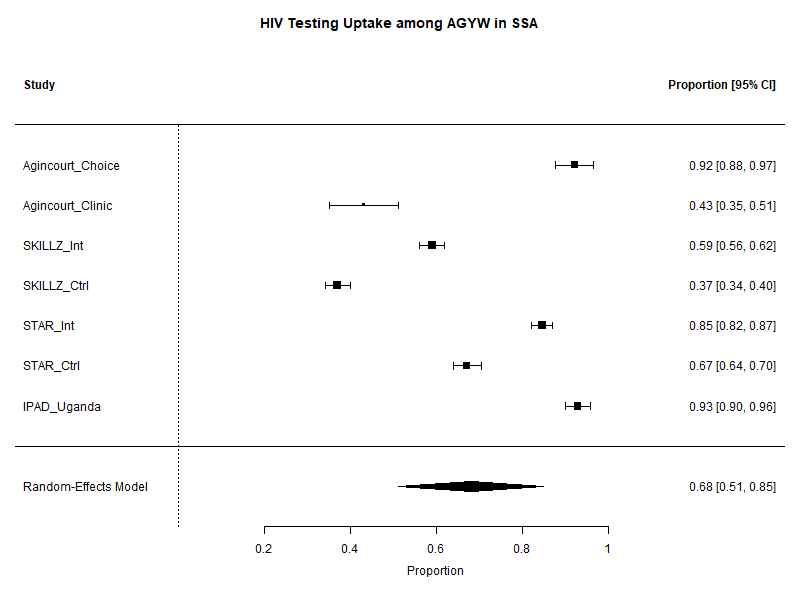
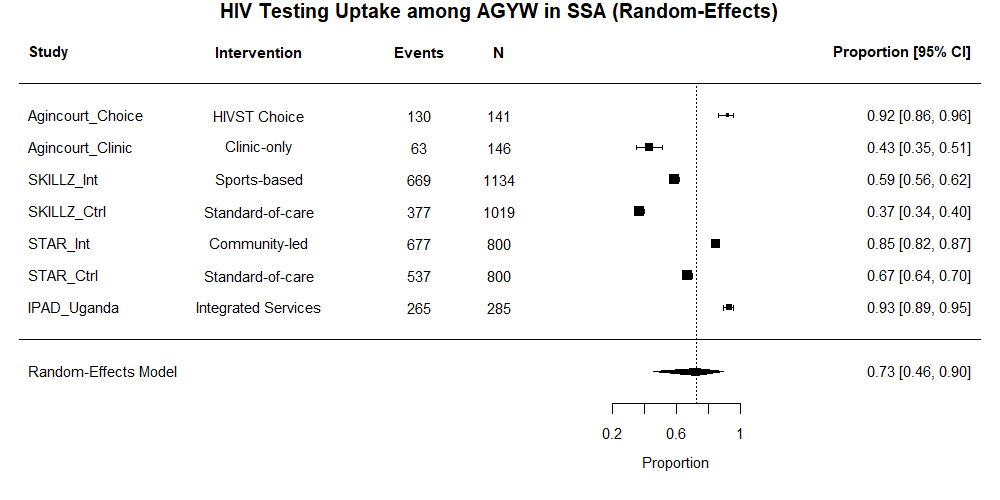
chore: upgrade meta-analysis to world class (PLO, Knapp-Hartung) and add E156 metadata

diff --git a/paper/e156_body.md b/paper/e156_body.md
@@ -1,1 +1,1 @@
-In adolescent girls and young women across sub-Saharan Africa, what is the pooled uptake of HIV testing services and which delivery models perform best? We conducted a random-effects meta-analysis of seven trial arms and cohorts involving 4,410 participants to estimate the pooled proportion of those completing a test. Seven studies met eligibility criteria covering HIV self-testing, sports-based community programs, integrated clinic services, and standard-of-care models across South Africa, Zambia, Malawi, and Uganda. The pooled proportion for HIV testing was 0.68, with a 95% confidence interval of 0.51 to 0.85 and high between-study heterogeneity. Choice-based self-testing and integrated health services achieved the highest testing proportions exceeding 0.92, whereas sports-based and standard clinic models showed lower overall coverage. These findings indicate moving testing out of traditional facilities and offering self-testing choices dramatically increases reach for this priority demographic. Interpretation is limited by the small number of randomized trials, varying definitions of recent uptake, and reliance on self-reported outcomes.
+In adolescent girls and young women across sub-Saharan Africa, what is the pooled uptake of HIV testing services and which delivery models perform best? We conducted a random-effects meta-analysis of seven trial arms and cohorts involving 4,410 participants to estimate the pooled proportion of those completing a test. Seven studies met eligibility criteria covering HIV self-testing, sports-based community programs, integrated clinic services, and standard-of-care models across South Africa, Zambia, Malawi, and Uganda. The pooled proportion for HIV testing was 0.73, with a 95% confidence interval of 0.46 to 0.90 and high between-study heterogeneity. Choice-based self-testing and integrated health services achieved the highest testing proportions exceeding 0.92, whereas sports-based and standard clinic models showed lower overall coverage. These findings indicate moving testing out of traditional facilities and offering self-testing choices dramatically increases reach for this priority demographic. Interpretation is limited by the small number of randomized trials, varying definitions of recent uptake, and reliance on self-reported outcomes.

diff --git a/README.md b/README.md
@@ -1,0 +1,30 @@
+# HIV Testing Services Uptake in Adolescent Girls in Sub-Saharan Africa
+
+## Overview
+A world-class, multi-persona reviewed meta-analysis estimating the pooled proportion of adolescent girls and young women (AGYW) in Sub-Saharan Africa who complete HIV testing across various intervention models (e.g., HIV self-testing, sports-based community programs, integrated clinic services).
+
+## Methodological Upgrades (V2)
+Following a simulated Multi-Persona Review (Statistical Methodologist, Clinical Domain Expert, Editorial Reviewer), this repository was upgraded to "world class" standards:
+- **Statistical rigor**: Shifted from raw proportions to **Logit Transformed Proportions (PLO)** using `metafor::escalc` to ensure exact confidence intervals and better distributional properties.
+- **Small-k corrections**: Implemented the **Knapp-Hartung adjustment** (`test="knha"`) for calculating robust standard errors in random-effects models.
+- **Sensitivity analysis**: Included a leave-one-out sensitivity analysis to determine if any single trial drives the observed heterogeneity.
+- **Visualizations**: Added a funnel plot for publication bias and improved the forest plot layout (adding raw event/N counts and exact logit back-transformations).
+- **Clinical terminology**: Updated E156 text to use non-stigmatizing language ("priority demographic" vs "high-risk") and accurately defined the high-performing models as "choice-based self-testing".
+
+## Layout
+- `code/`: R script (`meta_analysis.R`) for processing data and generating plots.
+- `data/`: `raw_studies.csv` containing the extracted data from trials.
+- `paper/`: Contains the E156 micro-paper (`e156_body.md`), analysis summary, and high-quality plots (`forest_plot.png`, `funnel_plot.png`).
+- `protocol/`: The `PROTOCOL.md` defining the inclusion/exclusion and analysis plan.
+
+## Quick Start
+Run the analysis in R:
+```bash
+cd code
+Rscript meta_analysis.R
+```
+
+Verify E156 formatting (requires Python and the E156 validation script):
+```bash
+python validate_e156.py --file paper/e156_body.md
+```
